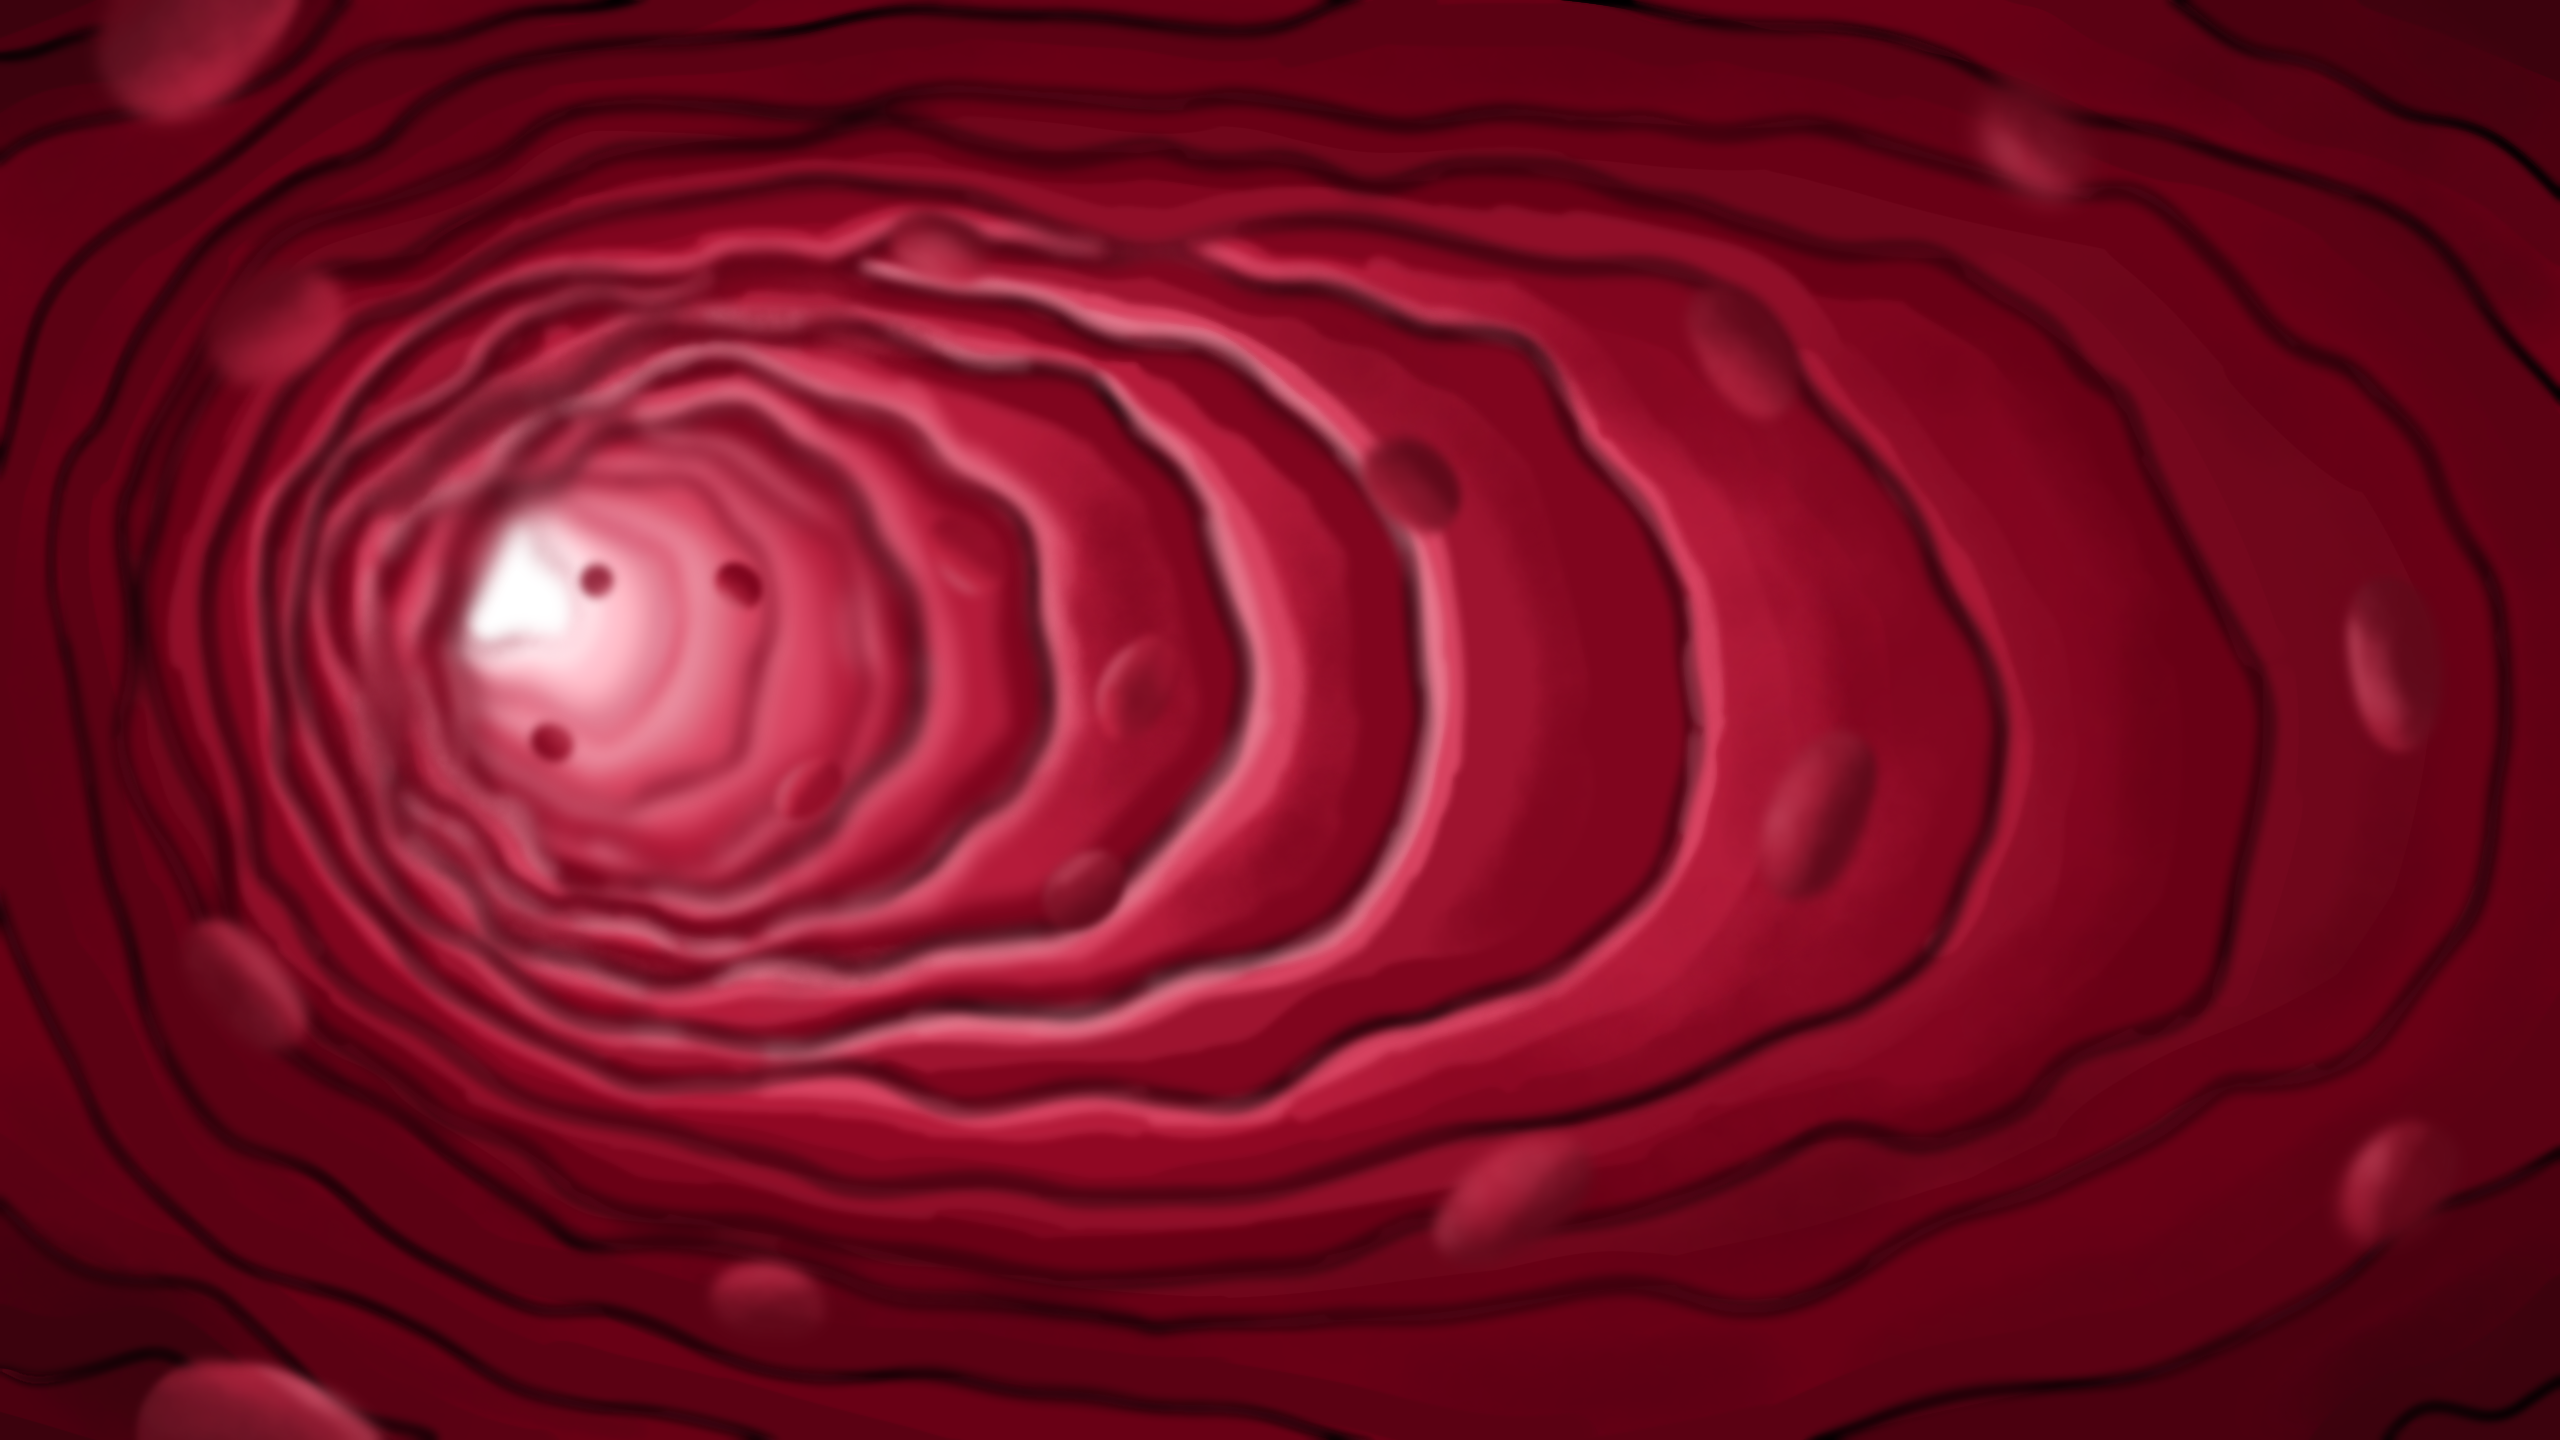
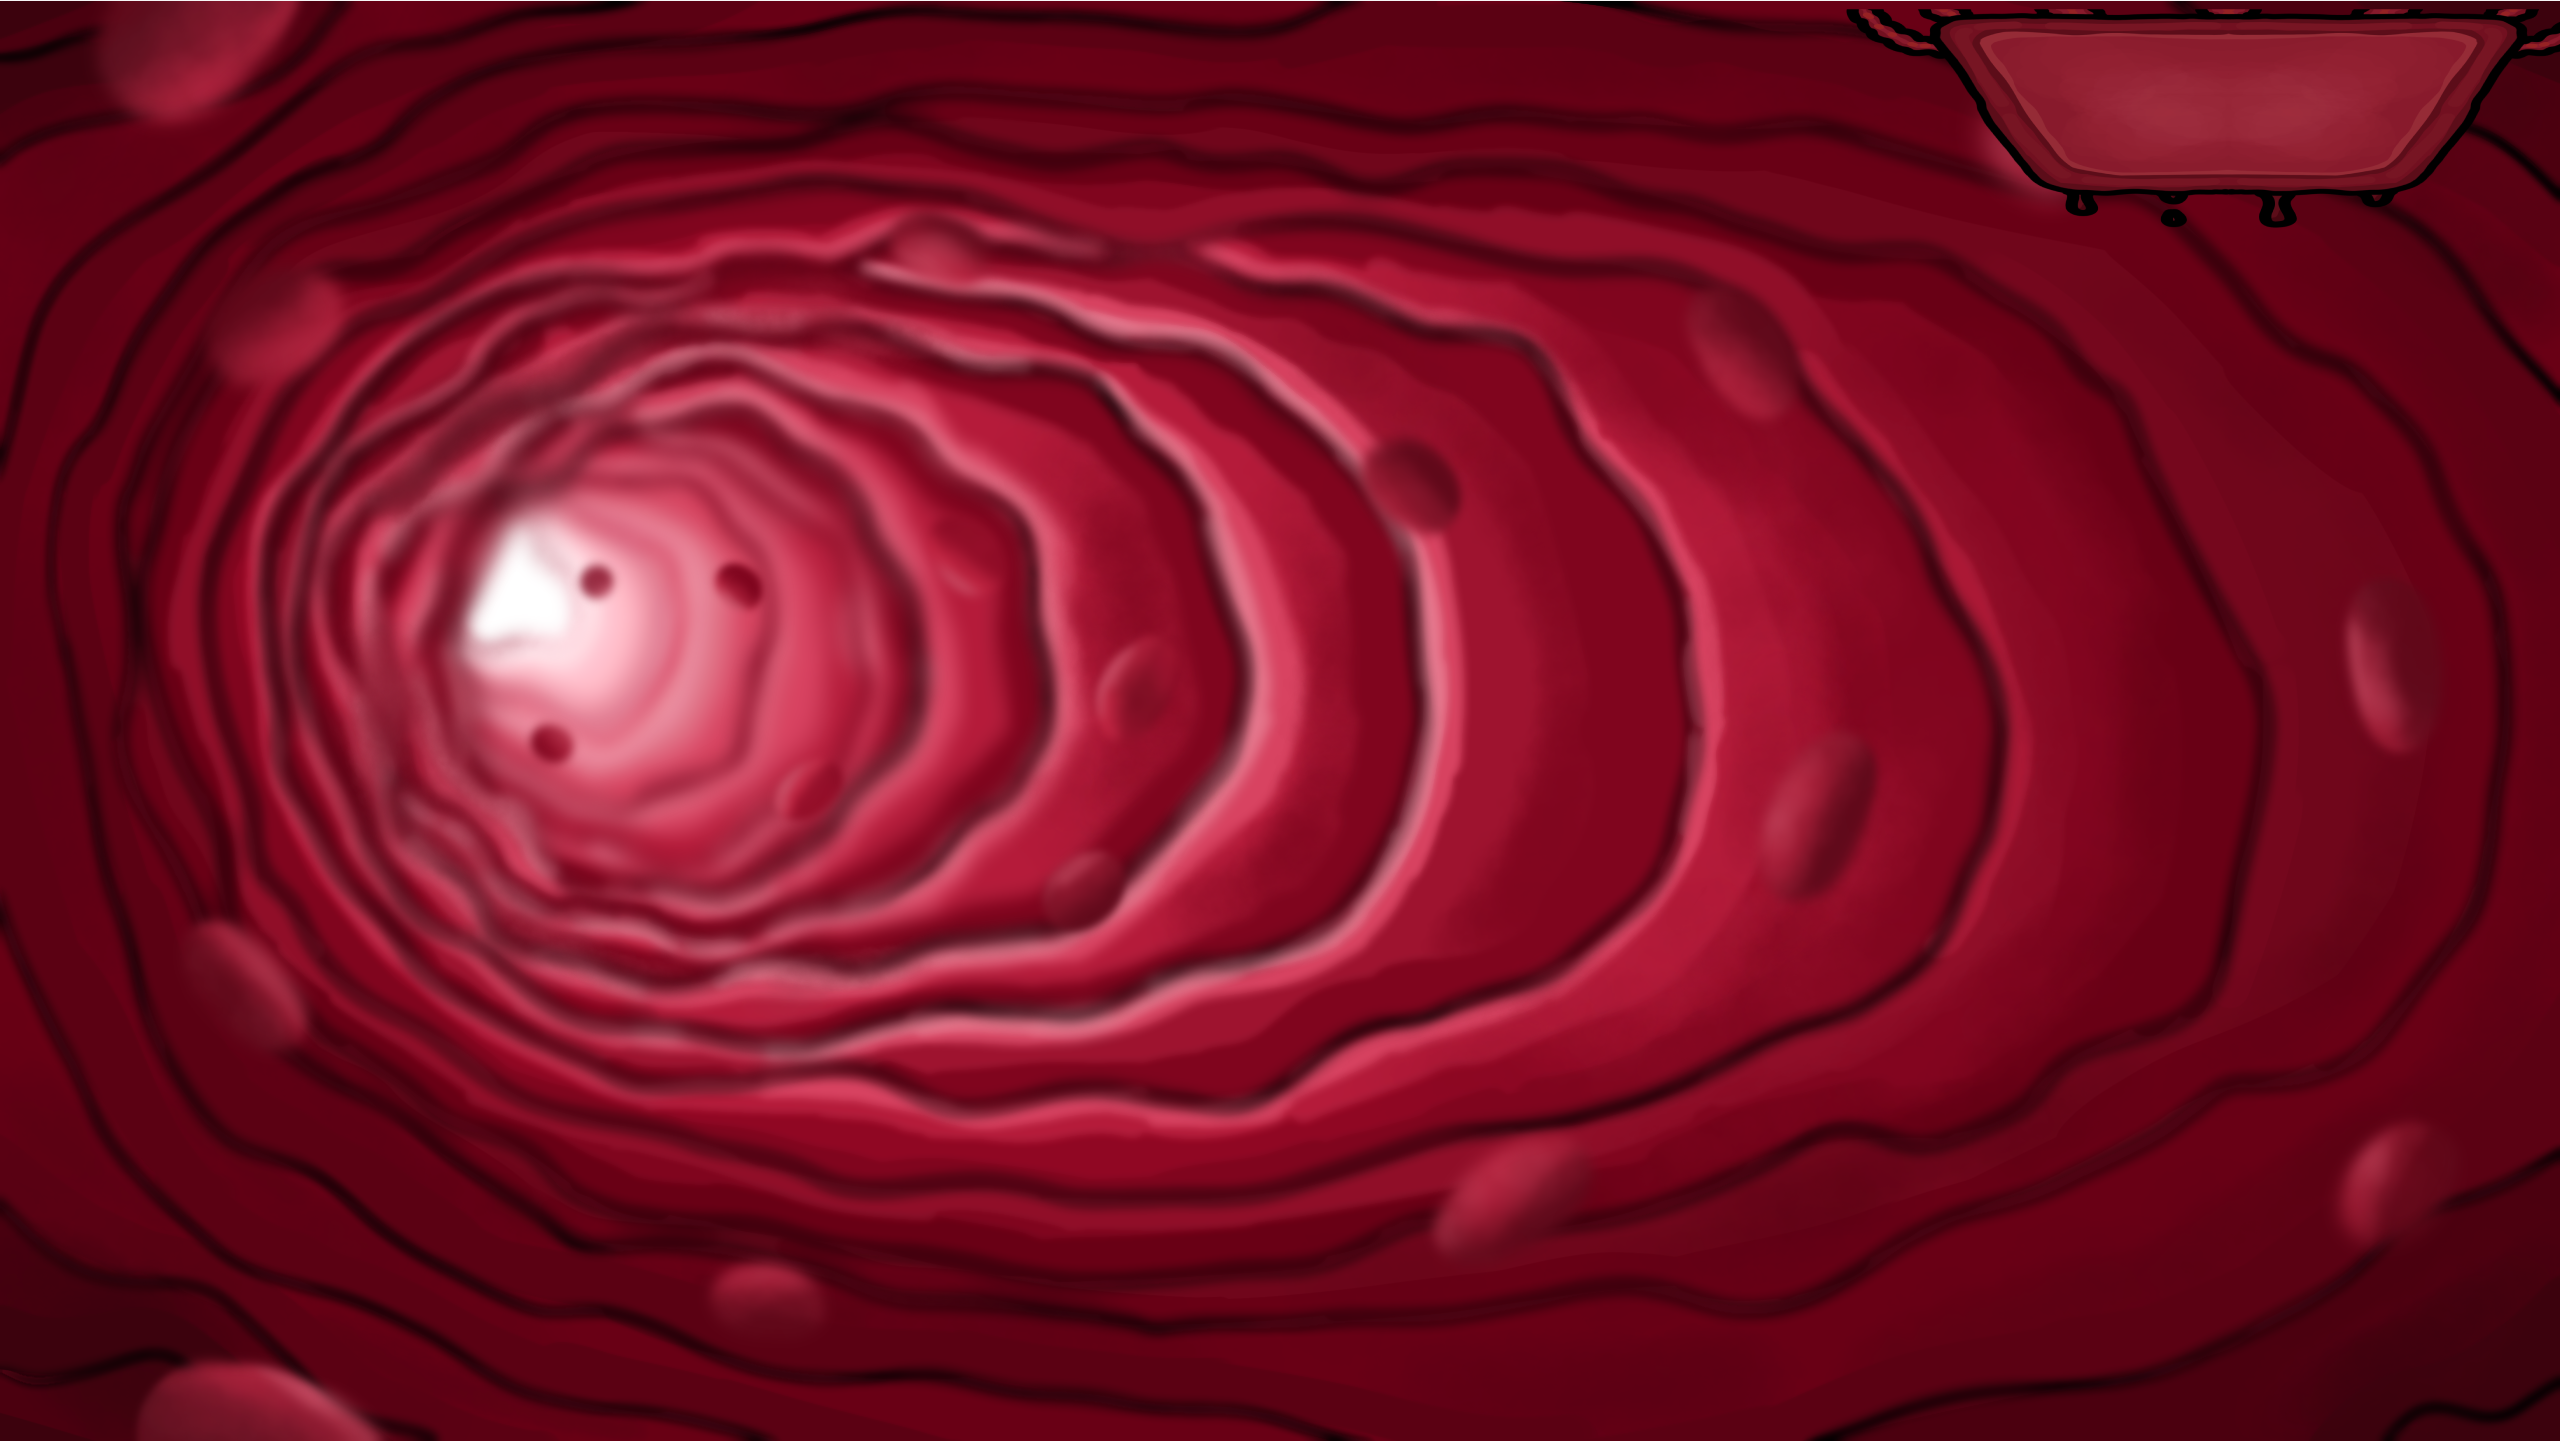
Adicionei o fundo no time

Changed region(s): [[0.7188, 0.0, 1.0, 0.1562]]

diff --git a/game/phase.py b/game/phase.py
@@ -73,6 +73,7 @@ class Phase:
         # Render Score
         score_text = font.render(f"Score: {self.player.score}", True, WHITE)
         self.screen.blit(score_text, (10, 10))
+        
 
         # Render Time
         if self.player.first_input:
@@ -84,7 +85,8 @@ class Phase:
             self.time = f"{minutes:02}:{seconds:02}.{milliseconds:02}"
 
         time_text  = font.render(f"Time: {self.time}", True, WHITE)
-        self.screen.blit(time_text, (SCREEN_WIDTH-200, 10))
+        self.screen.blit(time_text, (SCREEN_WIDTH-214, 30))
+    
 
     def update(self):
         self.draw_background()

diff --git a/levels/leveluh1.py b/levels/leveluh1.py
@@ -4,7 +4,7 @@ class LevelUH1(LevelConstructor):
         self.map = [
             "                                        ",
             "                                        ",
-            "    X             X     X           XX  ",
+            "    X             X     X               ",
             "                                        ",
             "          X                             ",
             "                       X                ",

diff --git a/levels/leveluh4.py b/levels/leveluh4.py
@@ -4,7 +4,7 @@ class LevelUH1(LevelConstructor):
         self.map = [
             "                                        ",
             "                                        ",
-            " X                             X        ",
+            " X                                      ",
             "         X             X               X",
             "                                        ",
             " X              X                  X    ",
